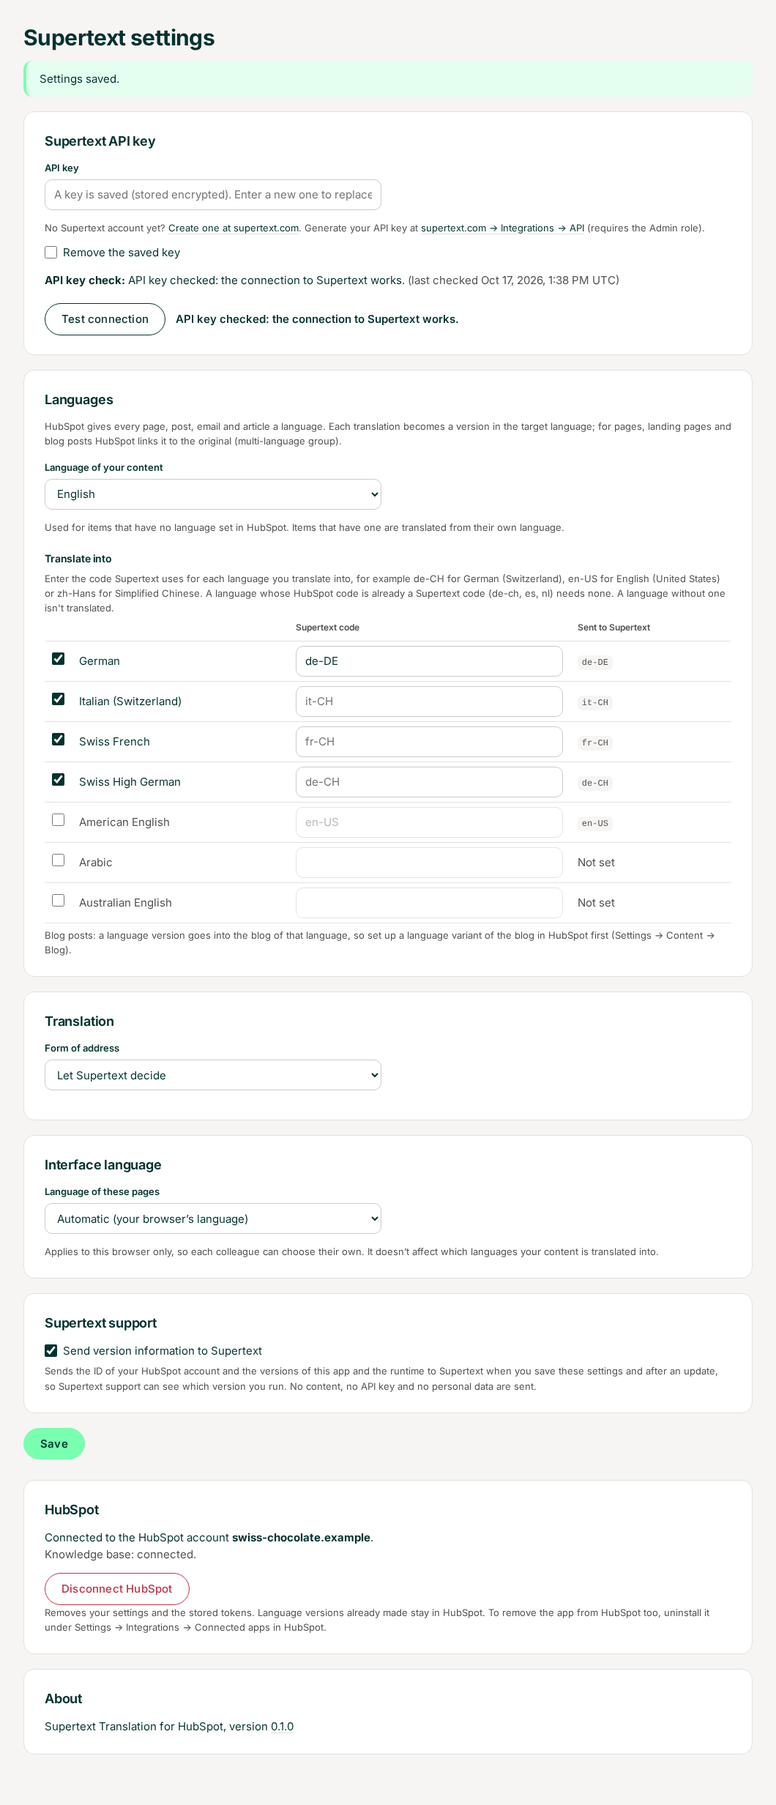
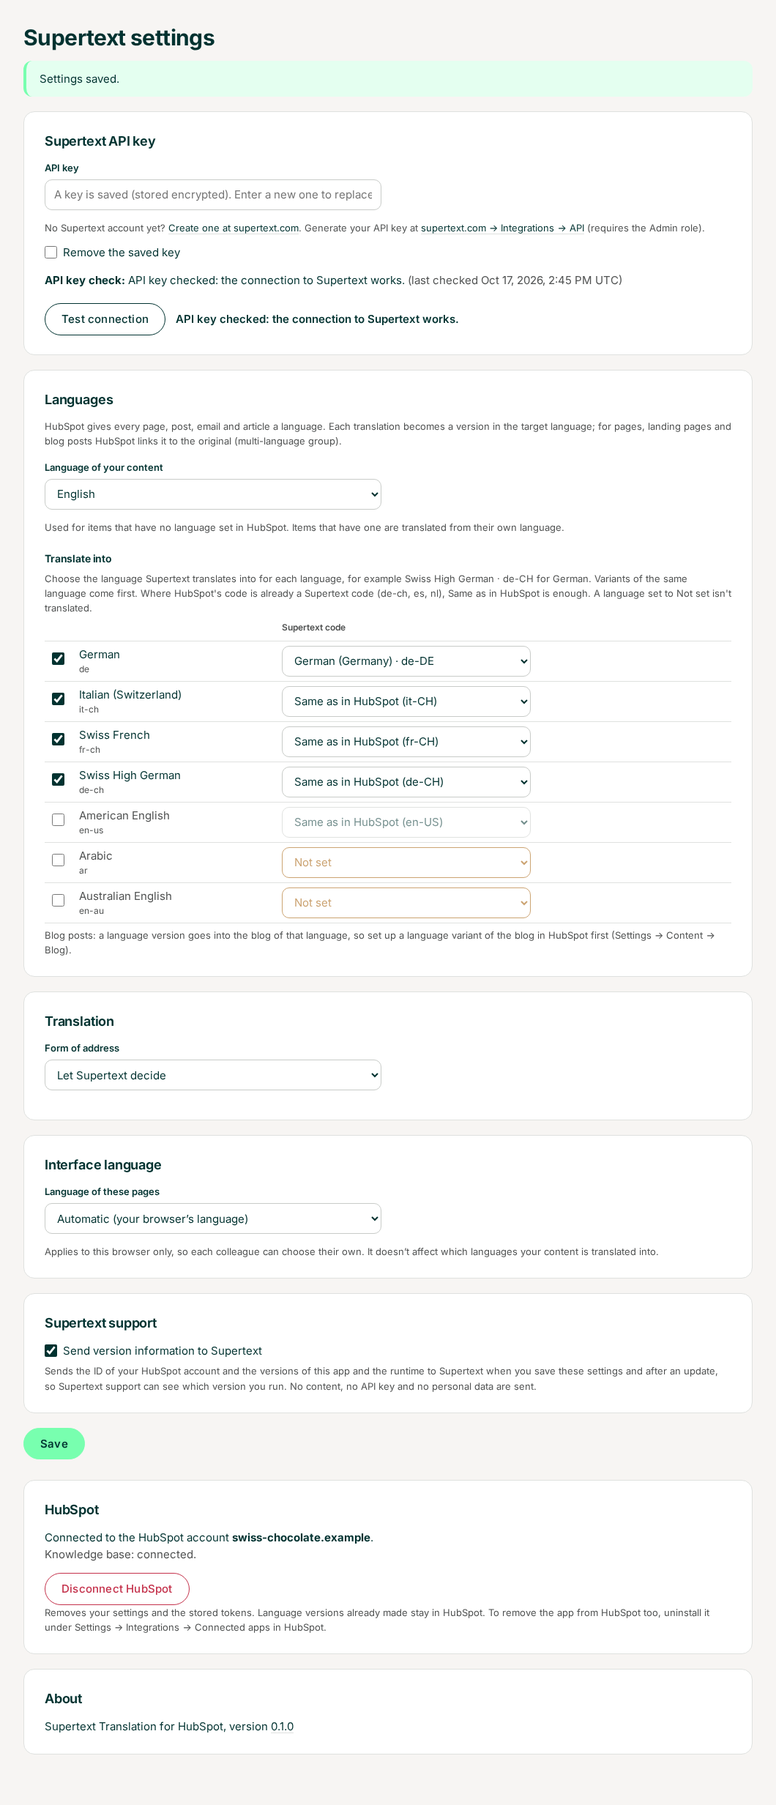
Settings: choose the Supertext code from a dropdown
Each language's Supertext code is now a select of Supertext's languages
(name and code, the same language's variants first) instead of a text
field with suggestions; the empty choice says what happens without a
mapping, so the Sent to Supertext column is gone.

Claude-Session: https://claude.ai/code/session_01AU3tag45efgDojCNg2Fhnj

diff --git a/src/views/settings.tsx b/src/views/settings.tsx
@@ -8,7 +8,9 @@ import {
   languageName,
   resolvedTarget,
   SUPERTEXT_TARGETS,
+  suggestedTargets,
   supertextCodeOf,
+  supertextName,
   supertextSource,
   supportsPoliteness,
 } from '../translation/languages.js';
@@ -169,14 +171,22 @@ export function SettingsPage(props: SettingsPageProps) {
                 <th></th>
                 <th></th>
                 <th>{t.t('settings.languages.code')}</th>
-                <th>{t.t('settings.languages.sent')}</th>
               </tr>
             </thead>
             <tbody>
               {ordered.map((code) => {
                 const chosen = account.targets.includes(code);
                 const exact = supertextCodeOf(code);
-                const sent = resolvedTarget(code, account.languageCodes);
+                const mapped = account.languageCodes[code] ?? '';
+                const suggested = suggestedTargets(code);
+                const others = SUPERTEXT_TARGETS.filter((target) => !suggested.includes(target)).sort((a, b) =>
+                  supertextName(a, t.locale).localeCompare(supertextName(b, t.locale), t.locale),
+                );
+                const option = (target: string) => (
+                  <option value={target} selected={mapped === target}>
+                    {supertextName(target, t.locale)} · {target}
+                  </option>
+                );
                 return (
                   <tr class={chosen ? 'chosen' : 'other'}>
                     <td class="check">
@@ -184,30 +194,26 @@ export function SettingsPage(props: SettingsPageProps) {
                     </td>
                     <td>
                       <label for={`t-${code}`}>{languageName(code, t.locale)}</label>
+                      <span class="hs-code">{code}</span>
                     </td>
                     <td>
-                      <input
+                      <select
                         name={`code:${code}`}
-                        value={account.languageCodes[code] ?? ''}
-                        placeholder={exact ?? ''}
-                        list="supertext-codes"
-                        size={14}
+                        class={!mapped && !exact ? 'missing' : ''}
                         aria-label={`${t.t('settings.languages.code')}: ${languageName(code, t.locale)}`}
-                      />
-                    </td>
-                    <td class={sent ? 'sent' : 'sent missing'}>
-                      {sent ? <code>{sent}</code> : t.t('settings.languages.notMapped')}
+                      >
+                        <option value="" selected={!mapped}>
+                          {exact ? t.t('settings.languages.same', { code: exact }) : t.t('settings.languages.notMapped')}
+                        </option>
+                        {suggested.length > 0 && <optgroup label={t.t('settings.languages.suggested')}>{suggested.map(option)}</optgroup>}
+                        <optgroup label={t.t('settings.languages.all')}>{others.map(option)}</optgroup>
+                      </select>
                     </td>
                   </tr>
                 );
               })}
             </tbody>
           </table>
-          <datalist id="supertext-codes">
-            {SUPERTEXT_TARGETS.map((code) => (
-              <option value={code} />
-            ))}
-          </datalist>
           <p class="help">{t.t('settings.languages.blogHint')}</p>
         </section>
 

diff --git a/public/app.css b/public/app.css
@@ -126,7 +126,7 @@ a.badge.done:hover { text-decoration: none; background: var(--mint-hover); }
 
 .codes td { padding: 6px 10px; }
 .codes tr.other td { color: var(--muted); }
-.codes tr.other input:not([type]) { opacity: .5; }
+.codes tr.other select { opacity: .55; }
 #test-result.ok { color: var(--text); font-weight: 600; }
 #test-result.failed { color: var(--red); }
 .about p, .connection p { margin: 0; }
@@ -142,7 +142,9 @@ td.lang { font-size: 12px; color: var(--muted); white-space: nowrap; }
 .table-scroll { overflow-x: auto; -webkit-overflow-scrolling: touch; margin: 0 -4px; padding: 0 4px; }
 .table-scroll table.items th, .table-scroll table.items td { white-space: nowrap; }
 .table-scroll table.items td.title { white-space: normal; min-width: 160px; }
-.codes input:not([type]) { width: 100%; min-width: 0; }
+.codes select { width: 100%; min-width: 0; max-width: 340px; }
+.codes select.missing { border-color: var(--orange); color: var(--orange); }
+.codes .hs-code { display: block; font-size: 12px; color: var(--muted); }
 html { -webkit-text-size-adjust: 100%; }
 body { overflow-x: hidden; }
 
@@ -168,17 +170,16 @@ body { overflow-x: hidden; }
   .language { width: 100%; }
   .kinds { flex-wrap: nowrap; overflow-x: auto; margin: 0 -16px 16px; padding: 0 16px; }
   .kinds a { white-space: nowrap; flex: none; }
-  /* Languages table: checkbox, name and code; what is sent goes under the name. */
+  /* Languages table: checkbox and name, the Supertext code below. */
   .codes thead { display: none; }
-  .codes tr { display: grid; grid-template-columns: 32px 1fr 108px; grid-template-areas: "check name code" "check sent code"; column-gap: 8px; align-items: center; padding: 8px 0; border-bottom: 1px solid var(--line); }
+  .codes tr { display: grid; grid-template-columns: 32px 1fr; grid-template-areas: "check name" "check code"; column-gap: 8px; row-gap: 6px; align-items: center; padding: 10px 0; border-bottom: 1px solid var(--line); }
   .codes tr:last-child { border-bottom: 0; }
   .codes td { padding: 0; border: 0; }
-  .codes td:nth-child(1) { grid-area: check; }
+  .codes td:nth-child(1) { grid-area: check; align-self: start; padding-top: 3px; }
   .codes td:nth-child(2) { grid-area: name; }
+  .codes td:nth-child(2) .hs-code { display: inline; margin-left: 6px; }
   .codes td:nth-child(3) { grid-area: code; }
-  .codes td:nth-child(4) { grid-area: sent; font-size: 12px; color: var(--muted); }
-  .codes td:nth-child(4) code { font-size: 11px; padding: 1px 4px; }
-  .codes input:not([type]) { font-size: 15px; padding: 6px 8px; min-height: 36px; }
+  .codes select { max-width: none; font-size: 15px; min-height: 40px; }
   table.results, table.results tbody { display: block; }
   table.results tr { display: flex; flex-wrap: wrap; gap: 2px 12px; padding: 10px 0; border-bottom: 1px solid var(--line); }
   table.results tr:last-child { border-bottom: 0; }

diff --git a/src/translation/languages.ts b/src/translation/languages.ts
@@ -72,3 +72,22 @@ export const supertextSource = (language: string, mapping: LanguageMapping): str
 
 /** Whether Supertext offers formal and informal address for this target code. */
 export const supportsPoliteness = (target: string): boolean => Languages.supportsPoliteness(target) === true;
+
+const DIALECT_PLACES: Record<string, string> = { chzh: 'Zürich', chbe: 'Bern' };
+
+/** A Supertext target code's name in the interface language ("de-CH" → "German (Switzerland)", "gsw-u-sd-chzh" → "Swiss German (Zürich)"). */
+export function supertextName(code: string, uiLocale: string): string {
+  const dialect = /^gsw-u-sd-(\w+)$/.exec(code);
+  if (dialect) return `${languageName('gsw', uiLocale)} (${DIALECT_PLACES[dialect[1]] ?? dialect[1]})`;
+  return languageName(code, uiLocale);
+}
+
+/**
+ * Supertext's target codes for a HubSpot language, for the dropdown: the codes of the same
+ * language first ("de" → de-CH, de-DE, de-AT and the Swiss German dialects; "no" → nb).
+ */
+export function suggestedTargets(language: string): string[] {
+  const base = hubspotCode(language).split('-')[0];
+  const bases = base === 'no' ? ['nb', 'no'] : base === 'de' ? ['de', 'gsw'] : [base];
+  return SUPERTEXT_TARGETS.filter((code) => bases.includes(code.split('-')[0].toLowerCase()));
+}

diff --git a/src/i18n/fr.ts b/src/i18n/fr.ts
@@ -104,8 +104,10 @@ export const fr: Messages = {
   'settings.languages.targets': 'Traduire en',
   'settings.languages.code': 'Code Supertext',
   'settings.languages.codeHint':
-    'Saisissez pour chaque langue cible le code utilisé par Supertext, par exemple de-CH pour l’allemand (Suisse), en-US pour l’anglais (États-Unis) ou zh-Hans pour le chinois simplifié. Une langue dont le code HubSpot est déjà un code Supertext (de-ch, es, nl) n’en a pas besoin. Une langue sans code n’est pas traduite.',
-  'settings.languages.sent': 'Envoyé à Supertext',
+    'Choisissez pour chaque langue celle dans laquelle Supertext traduit, par exemple Allemand suisse · de-CH pour l’allemand. Les variantes de la même langue figurent en premier. Si le code HubSpot est déjà un code Supertext (de-ch, es, nl), Comme dans HubSpot suffit. Une langue Non défini n’est pas traduite.',
+  'settings.languages.same': 'Comme dans HubSpot ({code})',
+  'settings.languages.suggested': 'Suggérées',
+  'settings.languages.all': 'Toutes les langues Supertext',
   'settings.languages.notMapped': 'Non défini',
   'settings.languages.unmapped':
     'Ces langues n’ont pas encore de code Supertext et ne sont traduites qu’une fois que vous en avez saisi un sous Langues : {languages}.',

diff --git a/src/i18n/de.ts b/src/i18n/de.ts
@@ -107,8 +107,10 @@ export const de: Messages = {
   'settings.languages.targets': 'Übersetzen in',
   'settings.languages.code': 'Supertext-Code',
   'settings.languages.codeHint':
-    'Geben Sie für jede Zielsprache den Code ein, den Supertext verwendet, zum Beispiel de-CH für Deutsch (Schweiz), en-US für Englisch (USA) oder zh-Hans für vereinfachtes Chinesisch. Eine Sprache, deren HubSpot-Code bereits ein Supertext-Code ist (de-ch, es, nl), braucht keinen. Eine Sprache ohne Code wird nicht übersetzt.',
-  'settings.languages.sent': 'An Supertext gesendet',
+    'Wählen Sie für jede Sprache, in welche Sprache Supertext übersetzt, zum Beispiel Schweizer Hochdeutsch · de-CH für Deutsch. Die Varianten derselben Sprache stehen zuoberst. Ist der HubSpot-Code bereits ein Supertext-Code (de-ch, es, nl), genügt Wie in HubSpot. Eine Sprache mit Nicht festgelegt wird nicht übersetzt.',
+  'settings.languages.same': 'Wie in HubSpot ({code})',
+  'settings.languages.suggested': 'Vorgeschlagen',
+  'settings.languages.all': 'Alle Supertext-Sprachen',
   'settings.languages.notMapped': 'Nicht festgelegt',
   'settings.languages.unmapped':
     'Diese Sprachen haben noch keinen Supertext-Code und werden erst übersetzt, wenn Sie unter Sprachen einen eingeben: {languages}.',

diff --git a/src/i18n/it.ts b/src/i18n/it.ts
@@ -104,8 +104,10 @@ export const it: Messages = {
   'settings.languages.targets': 'Traduci in',
   'settings.languages.code': 'Codice Supertext',
   'settings.languages.codeHint':
-    'Inserisca per ogni lingua di destinazione il codice usato da Supertext, per esempio de-CH per il tedesco (Svizzera), en-US per l’inglese (Stati Uniti) o zh-Hans per il cinese semplificato. Una lingua il cui codice HubSpot è già un codice Supertext (de-ch, es, nl) non ne ha bisogno. Una lingua senza codice non viene tradotta.',
-  'settings.languages.sent': 'Inviato a Supertext',
+    'Scelga per ogni lingua in quale lingua traduce Supertext, per esempio Alto tedesco svizzero · de-CH per il tedesco. Le varianti della stessa lingua sono in cima. Se il codice HubSpot è già un codice Supertext (de-ch, es, nl), basta Come in HubSpot. Una lingua Non impostato non viene tradotta.',
+  'settings.languages.same': 'Come in HubSpot ({code})',
+  'settings.languages.suggested': 'Suggerite',
+  'settings.languages.all': 'Tutte le lingue Supertext',
   'settings.languages.notMapped': 'Non impostato',
   'settings.languages.unmapped':
     'Queste lingue non hanno ancora un codice Supertext e vengono tradotte solo dopo che ne avrà inserito uno in Lingue: {languages}.',

diff --git a/src/i18n/en.ts b/src/i18n/en.ts
@@ -112,8 +112,10 @@ export const en = {
   'settings.languages.targets': 'Translate into',
   'settings.languages.code': 'Supertext code',
   'settings.languages.codeHint':
-    'Enter the code Supertext uses for each language you translate into, for example de-CH for German (Switzerland), en-US for English (United States) or zh-Hans for Simplified Chinese. A language whose HubSpot code is already a Supertext code (de-ch, es, nl) needs none. A language without one isn\'t translated.',
-  'settings.languages.sent': 'Sent to Supertext',
+    'Choose the language Supertext translates into for each language, for example Swiss High German · de-CH for German. Variants of the same language come first. Where HubSpot\'s code is already a Supertext code (de-ch, es, nl), Same as in HubSpot is enough. A language set to Not set isn\'t translated.',
+  'settings.languages.same': 'Same as in HubSpot ({code})',
+  'settings.languages.suggested': 'Suggested',
+  'settings.languages.all': 'All Supertext languages',
   'settings.languages.notMapped': 'Not set',
   'settings.languages.unmapped':
     "These languages have no Supertext code yet and aren't translated until you enter one under Languages: {languages}.",

diff --git a/tests/flow.test.ts b/tests/flow.test.ts
@@ -285,6 +285,20 @@ describe('languages', () => {
     expect(saved.headers.get('location')).toContain('invalid=de-XX');
     expect((await env.store.getAccount(PORTAL_ID))!.languageCodes).toEqual({});
   });
+
+  it('offers the Supertext codes as a dropdown, the same language first', async () => {
+    const env = setup();
+    await env.connect();
+    await env.saveSettings([['target', 'de'], ['target', 'de-ch'], ['code:de', 'de-DE']]);
+    const html = await (await env.request('/settings')).text();
+    const row = (code: string) => html.slice(html.indexOf(`name="code:${code}"`), html.indexOf('</select>', html.indexOf(`name="code:${code}"`)));
+    expect(row('de')).toContain('<option value="de-DE" selected');
+    expect(row('de').indexOf('gsw-u-sd-chzh')).toBeLessThan(row('de').indexOf('All Supertext languages'));
+    expect(row('de-ch')).toContain('Same as in HubSpot (de-CH)');
+    expect(row('zh-cn')).toContain('Not set');
+    expect(row('zh-cn')).toMatch(/Suggested[\s\S]*zh-Hans[\s\S]*zh-Hant[\s\S]*All Supertext/);
+    expect(html).not.toContain('<datalist');
+  });
 });
 
 describe('interface language', () => {

diff --git a/tests/docs/screenshots.ts b/tests/docs/screenshots.ts
@@ -68,7 +68,7 @@ async function main() {
   await page.fill('input[name="apiKey"]', 'Supertext-Auth-Key 0123456789abcdef');
   await page.selectOption('select[name="sourceLanguage"]', 'en');
   for (const code of ['de-ch', 'fr-ch', 'it-ch', 'de']) await page.check(`#t-${code}`);
-  await page.fill('input[name="code:de"]', 'de-DE');
+  await page.selectOption('select[name="code:de"]', 'de-DE');
   await page.click('button.primary');
   await page.waitForSelector('.notice.success');
   await page.click('#test-button');

diff --git a/docs/INSTALLATION.md b/docs/INSTALLATION.md
@@ -51,7 +51,7 @@ Everyone in your team who connects the same HubSpot account shares its settings.
 
 Enter the API key, choose your languages and click **Save**. Saving checks the API key automatically (free of charge, nothing is translated) and shows the result under the key: *API key checked: the connection to Supertext works.* means everything is in place. **Test connection** runs the same check again, also for a key you have typed but not saved yet.
 
-<img src="images/settings.png" alt="Supertext settings: the saved API key with links to create a Supertext account and generate the key, the API key check result and Test connection, both saying the connection to Supertext works; the language of the content (English); German with the Supertext code de-DE, Italian (Switzerland), Swiss French and Swiss High German ticked, sent as it-CH, fr-CH and de-CH; the form of address; Send version information to Supertext; the interface language (automatic); the connected account swiss-chocolate.example with the knowledge base connected; and the version 0.1.0" width="720">
+<img src="images/settings.png" alt="Supertext settings: the saved API key with links to create a Supertext account and generate the key, the API key check result and Test connection, both saying the connection to Supertext works; the language of the content (English); German with the Supertext language German (Germany) · de-DE chosen in its dropdown, Italian (Switzerland), Swiss French and Swiss High German ticked, each Same as in HubSpot (it-CH, fr-CH, de-CH); the form of address; Send version information to Supertext; the interface language (automatic); the connected account swiss-chocolate.example with the knowledge base connected; and the version 0.1.0" width="720">
 
 | Setting | Default | Purpose |
 | --- | --- | --- |
@@ -59,7 +59,7 @@ Enter the API key, choose your languages and click **Save**. Saving checks the A
 | Test connection | – | Checks the key (entered or saved) with Supertext, without translating anything. The result of the saved key's check is shown under the key with its time (UTC). |
 | Language of your content | English | Used for items that have no language set in HubSpot (HubSpot needs it to make a language variant). Items that have one are translated from their own language. *Let Supertext detect it* lets Supertext find the language, but pages without a language then can't get variants. |
 | Translate into | none | The languages to translate into, as HubSpot codes (`de-ch`, `fr`, `en-gb` …): use the same languages as your website and blog variants in HubSpot. |
-| Supertext code | empty | The language mapping: the code Supertext uses for this HubSpot language, picked from Supertext's list (the field suggests them). German, English, French, Italian and Portuguese need a region (`de-CH`, `de-DE`, `de-AT`, `en-US`, `en-GB`, `fr-CH`, `fr-FR`, `it-CH`, `it-IT`, `pt-BR`, `pt-PT`), Chinese and Serbian a script (`zh-Hans`, `zh-Hant`, `sr-Latn`, `sr-Cyrl`), Norwegian is `nb`; the others are the bare language (`es`, `nl`, `sl` …). Empty: the HubSpot code is used only if it is a Supertext code as it is (`de-ch` → `de-CH`, `es`, `nl`); otherwise the language isn't translated (*has no Supertext code yet*). Nothing is guessed: bare `de`, `fr` or `zh-cn` need a code. The column *Sent to Supertext* shows what each language is sent as, or *Not set*, and the page warns about ticked languages without a code. A code Supertext doesn't offer isn't saved (*Saved, except these codes …*). The same mapping gives the source language (`en-us` is sent as the source `en`). |
+| Supertext code | empty | The language mapping: the code Supertext uses for this HubSpot language, chosen from a dropdown of Supertext's languages (name and code, the variants of the same language first, e.g. for German `de-CH`, `de-DE`, `de-AT` and Swiss German for Zürich and Bern). German, English, French, Italian and Portuguese need a region (`de-CH`, `de-DE`, `de-AT`, `en-US`, `en-GB`, `fr-CH`, `fr-FR`, `it-CH`, `it-IT`, `pt-BR`, `pt-PT`), Chinese and Serbian a script (`zh-Hans`, `zh-Hant`, `sr-Latn`, `sr-Cyrl`), Norwegian is `nb`; the others are the bare language (`es`, `nl`, `sl` …). The first choice, *Same as in HubSpot (de-CH)* or *Not set*, means no mapping: the HubSpot code is used only if it is a Supertext code as it is (`de-ch` → `de-CH`, `es`, `nl`); otherwise the language isn't translated (*has no Supertext code yet*). Nothing is guessed: bare `de`, `fr` or `zh-cn` need a code. A language that would not be translated is shown in orange, and the page warns about ticked languages without a code. A code Supertext doesn't offer isn't saved (*Saved, except these codes …*). The same mapping gives the source language (`en-us` is sent as the source `en`). |
 | Form of address | Let Supertext decide | *Formal* (German "Sie", French "vous") or *Informal* ("du", "tu"). Sent only for languages where Supertext offers it; the page names the ticked languages that don't have it, which are translated with Supertext's default. |
 | Send version information to Supertext | On | See *Version information* below. |
 | Interface language | Automatic | The language of the app's own pages: your browser's language, or English, Deutsch, Français or Italiano. Saved for this browser only, so each colleague can choose their own; it doesn't change which languages your content is translated into. |

diff --git a/CHANGELOG.md b/CHANGELOG.md
@@ -10,7 +10,7 @@ First version (in development: tested against a stand-in of the HubSpot APIs, no
 - Translates website pages, landing pages, blog posts, marketing emails and knowledge base articles with Supertext AI on the app's *Translate* page. Pages and posts become HubSpot language variants in the original's multi-language group, emails get one copy per language, articles a linked translation; everything as a draft, nothing published or sent.
 - Translates titles, meta descriptions, subject line, preview text, plain-text version, rich text and the text fields of modules and drag-and-drop sections; keeps layout, images, links, forms and HubL / personalization tokens (refuses a translation that lost one).
 - *Update existing versions* is ticked by default (with a warning that changes made by hand are replaced); unticked, existing language versions are kept. A sent email copy is never changed.
-- Settings per HubSpot account: Supertext API key (stored encrypted, with account and API key links) with the automatic key check and *Test connection*, the content language, target languages with their Supertext codes (no guessed regions), form of address, *Send version information to Supertext* (Commando Center through Supertext Plugin Health 0.1.0; Supertext SDK 0.3.0), disconnecting, and the app version linked to its release.
+- Settings per HubSpot account: Supertext API key (stored encrypted, with account and API key links) with the automatic key check and *Test connection*, the content language, target languages with their Supertext codes chosen from a dropdown of Supertext's languages, the same language's variants first (no guessed regions), form of address, *Send version information to Supertext* (Commando Center through Supertext Plugin Health 0.1.0; Supertext SDK 0.3.0), disconnecting, and the app version linked to its release.
 - Recent translations with the result per language and links into HubSpot's editors.
 - Supertext's look: the Supertext logo in a deep-green header, Supertext's colours, pill buttons and the Inter font (bundled), and the Supertext favicon.
 - Interface in English, German, French and Italian, in the browser's language unless *Settings → Interface language* chooses another one for that browser (no language switch in the header), also on phones (the pages fit the screen; wide tables scroll inside their card; Save stays at the bottom of the settings). The stylesheet and script addresses change with every release, so browsers, Safari on iPhone included, load the new layout right away instead of a cached one.

diff --git a/docs/DEVELOPER.md b/docs/DEVELOPER.md
@@ -114,7 +114,7 @@ PLUGIN_HEALTH_DIR=/path/to/clone scripts/vendor-plugin-health.sh   # a local clo
 
 Supertext accepts only the codes its `GET features` lists (the SDK's `Languages`): sources are bare (`en`); targets are regional only for de/en/fr/it/pt (`de-CH`, `en-US`, `pt-BR`), script for zh/sr (`zh-Hans`, `sr-Latn`), `gsw-u-sd-chzh`/`chbe`, and bare for everything else (`es`, `nl`, `nb`, `sl`). Anything else is HTTP 404 `INVALID_LANGUAGE_PAIR`.
 
-**No guessing, no default regions.** HubSpot's content languages are lower-case codes, bare or regional (`LANGUAGE_CODES` in `src/translation/languages.ts`: `de`, `de-ch`, `fr-ca`, `zh-tw` …). Each account has its own **language mapping**, `Account.languageCodes` (HubSpot code → Supertext code), entered per language on the settings page (*Supertext code*, with a datalist of `Languages.TARGETS`; saved only if `Languages.matchTarget` finds it, in its exact form). One mapping serves both directions:
+**No guessing, no default regions.** HubSpot's content languages are lower-case codes, bare or regional (`LANGUAGE_CODES` in `src/translation/languages.ts`: `de`, `de-ch`, `fr-ca`, `zh-tw` …). Each account has its own **language mapping**, `Account.languageCodes` (HubSpot code → Supertext code), entered per language on the settings page (*Supertext code*, a dropdown of `Languages.TARGETS` named with `Intl.DisplayNames`, the same language's codes first (`suggestedTargets`), the empty choice *Same as in HubSpot* or *Not set*; saved only if `Languages.matchTarget` finds it, in its exact form). One mapping serves both directions:
 
 - **Target** (`supertextTarget` = `Languages.target(code, mapping)`): the mapping, else an exact match of the HubSpot code (`de-ch` → `de-CH`, `es`; case and `_`/`-` ignored), else the SDK error `unsupported_language`. The job then fails that language with `unsupportedLanguage` and sends nothing for it; the other languages go on. Bare `de`, `fr`, `it`, `en`, `pt`, and `zh-cn`, `zh-tw`, `no` need a mapping.
 - **Source** (`supertextSource` = `Languages.source(code, mapping)`): the item's language (else the account's content language) through the mapping in its source form, else its bare language (`de-ch` → `de`, `en-us` → `en`), else `unsupported_language` (the whole job fails, nothing sent).
